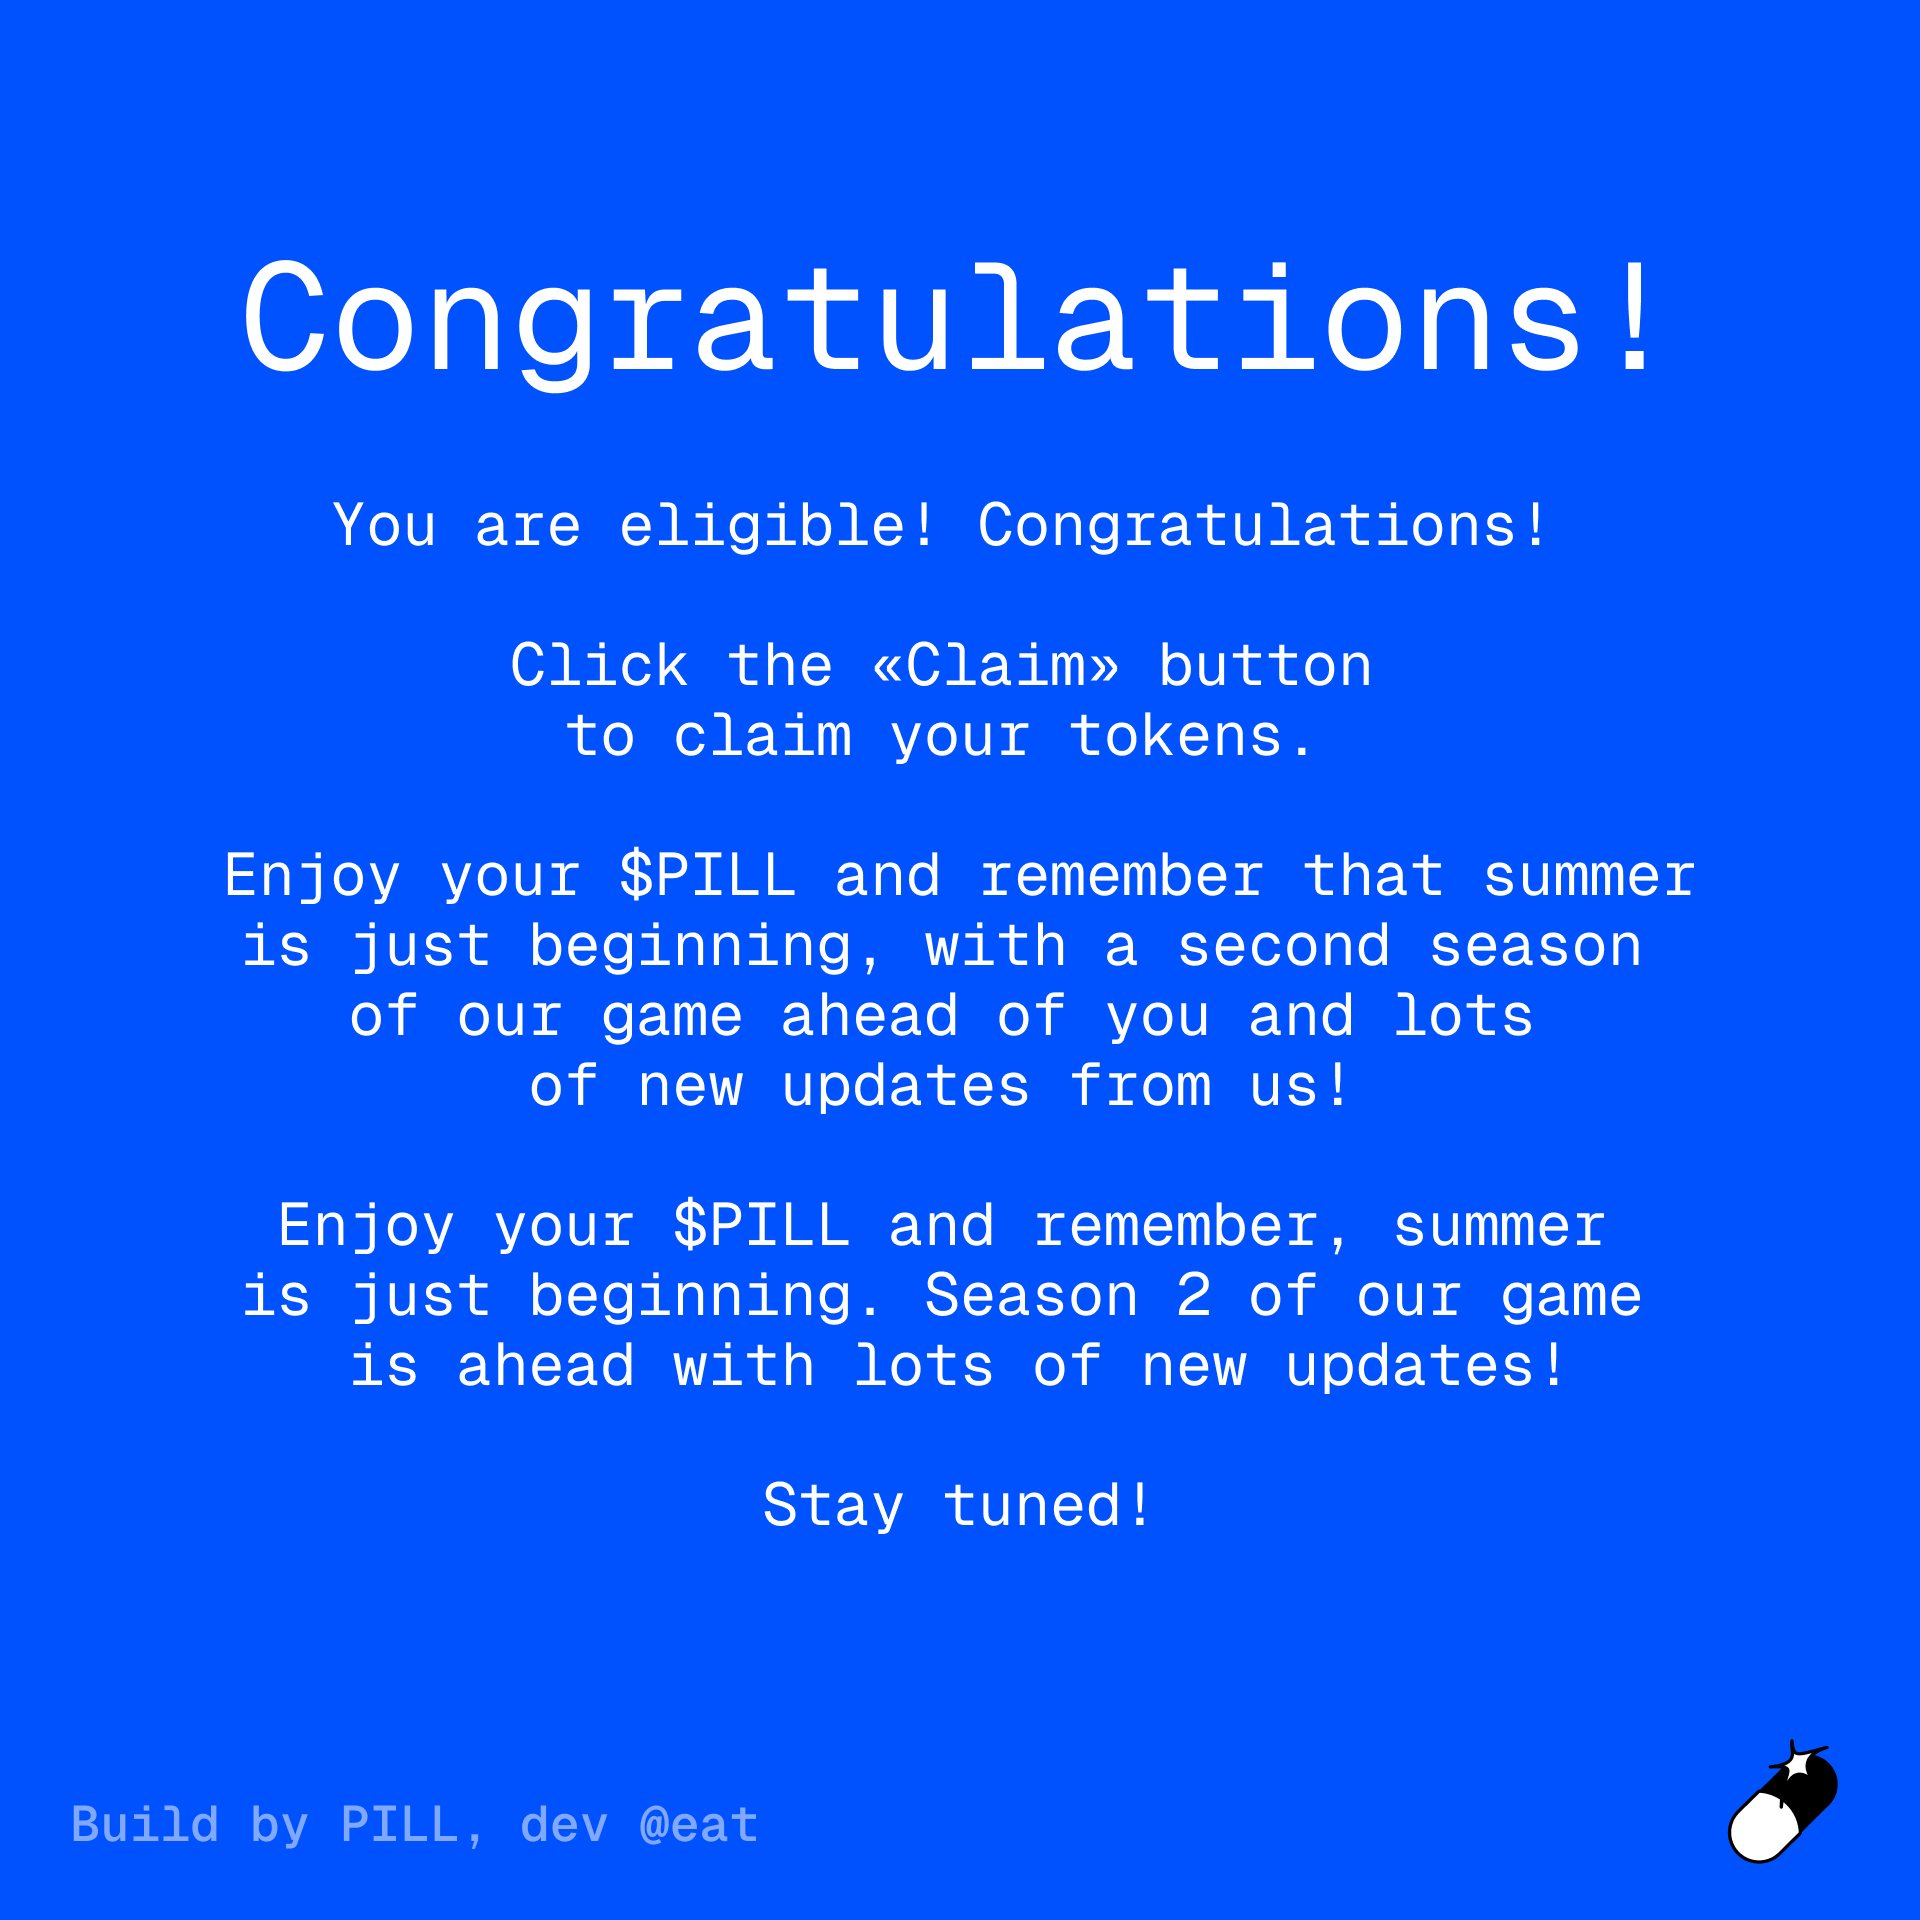
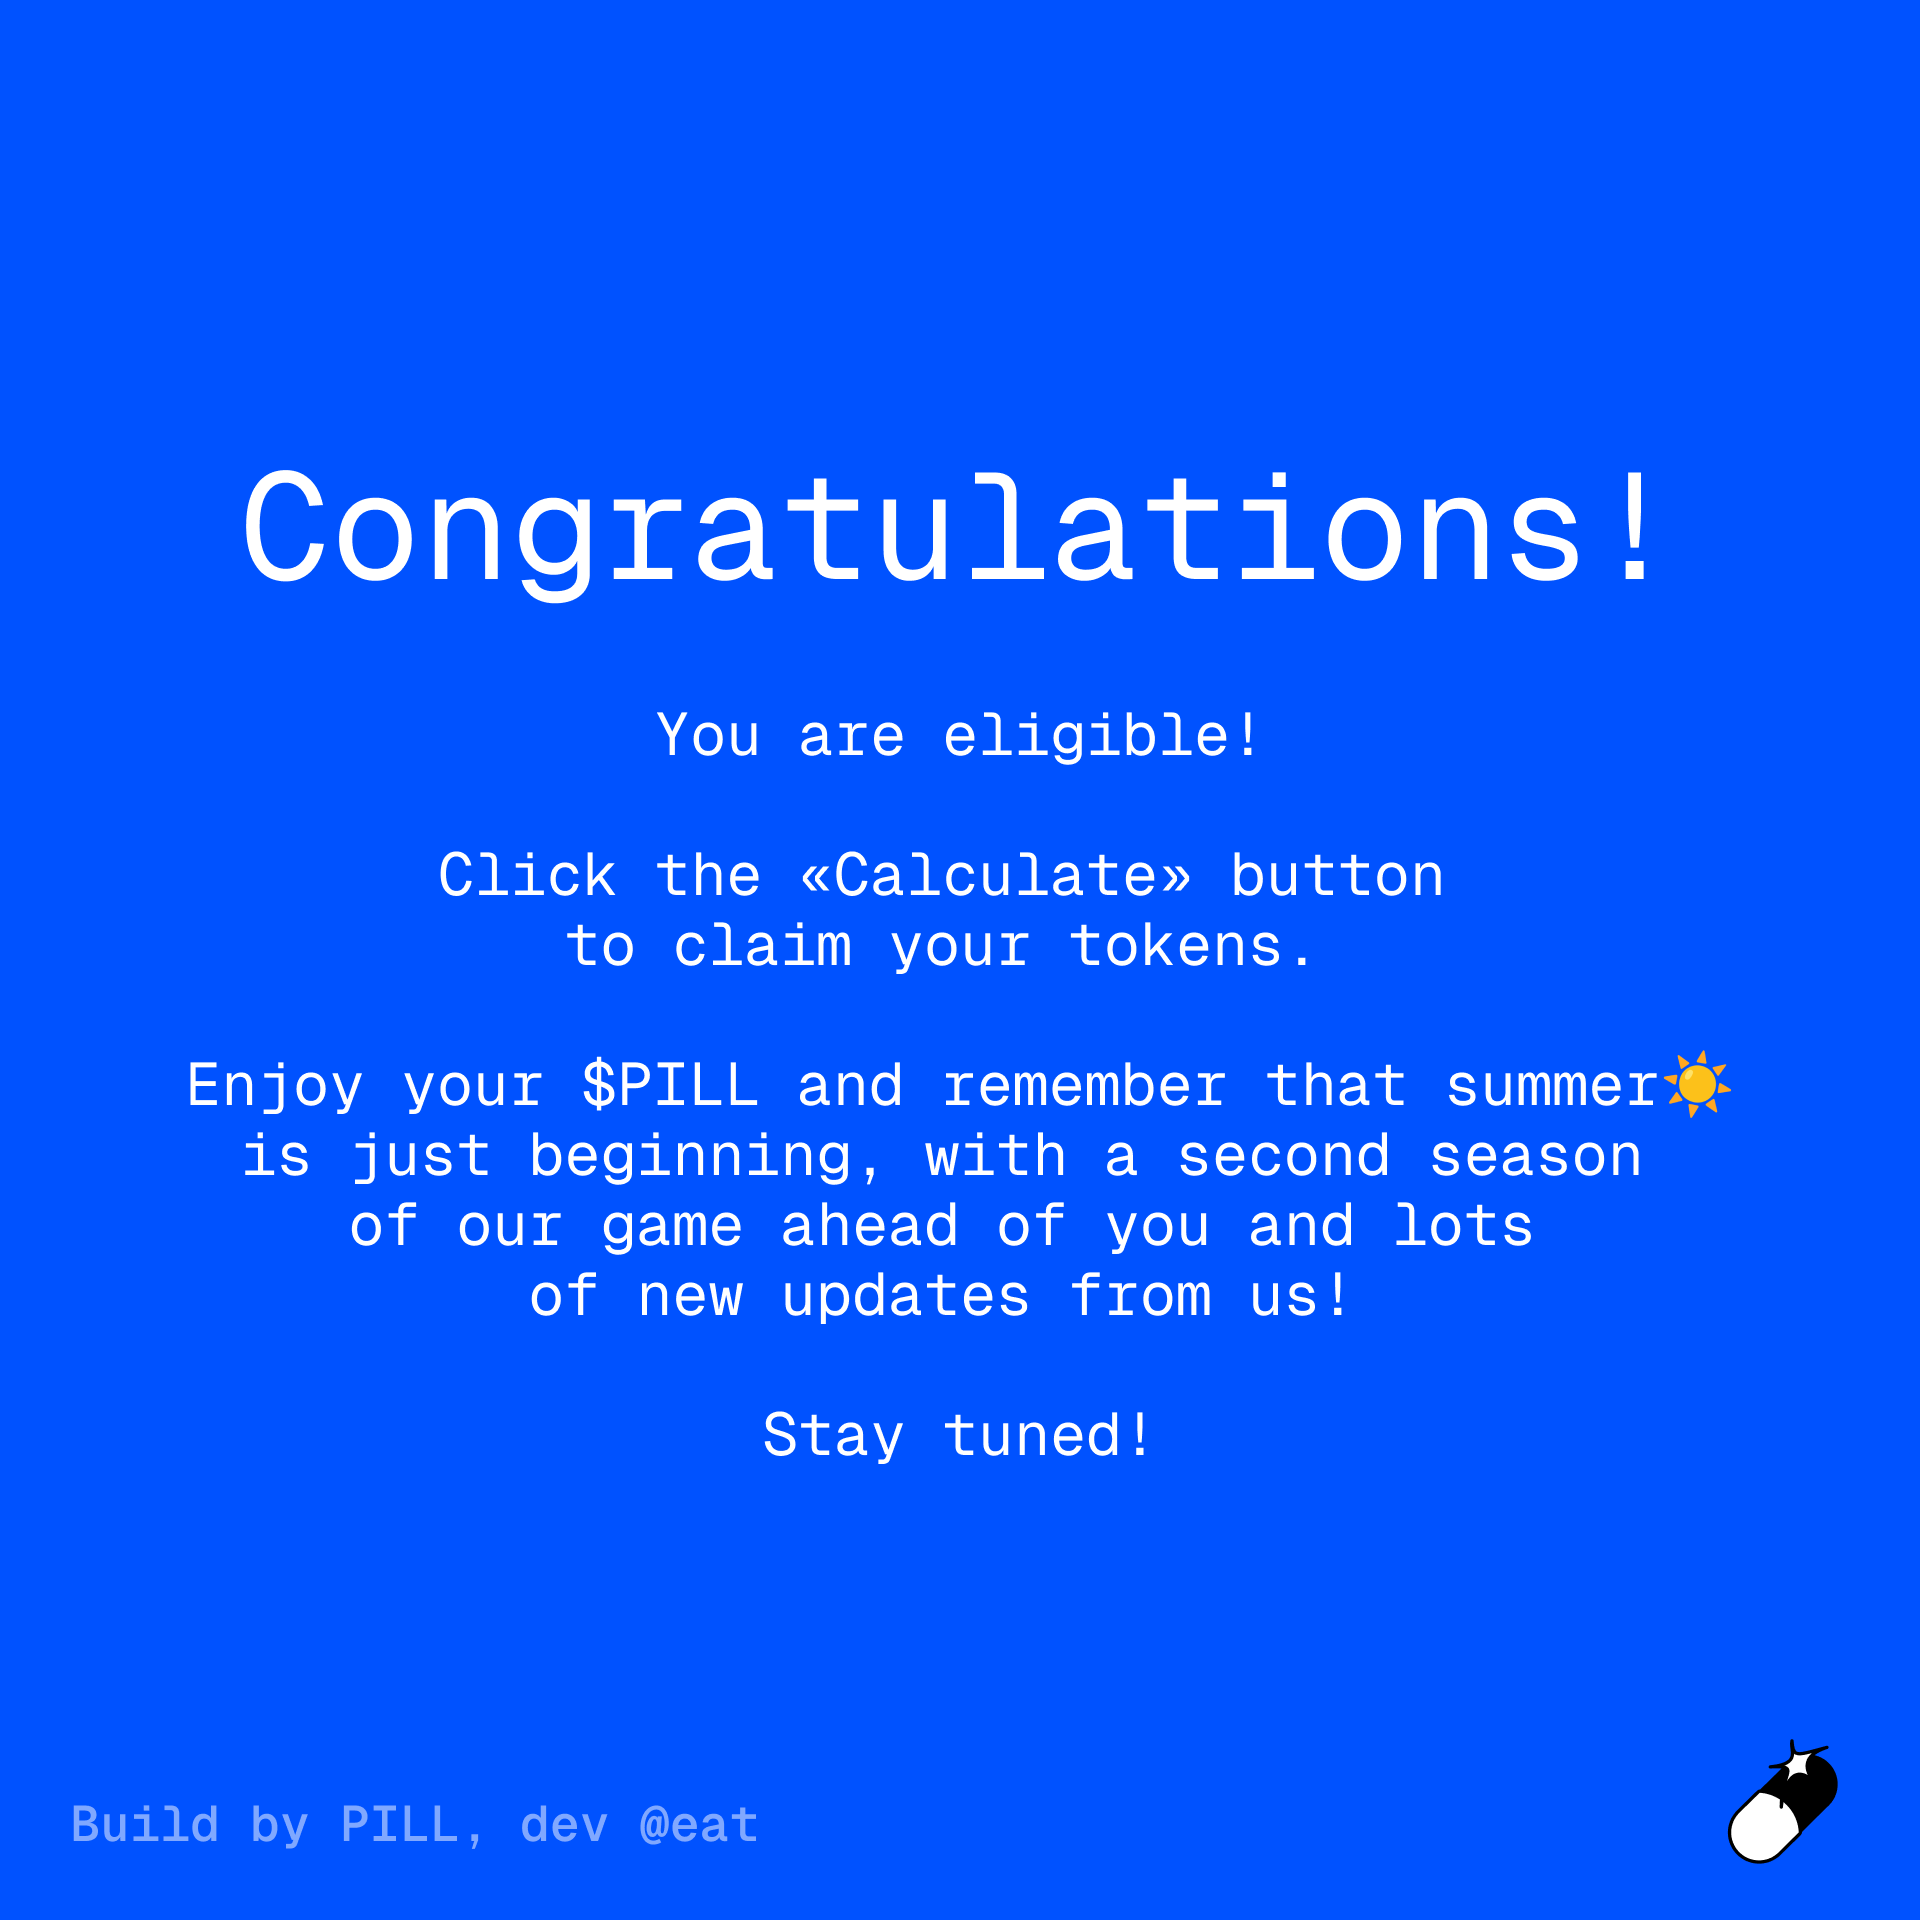
fixes

diff --git a/src/app/api/frame/get-calculate/route.tsx b/src/app/api/frame/get-calculate/route.tsx
@@ -35,6 +35,7 @@ export async function GET(request: Request) {
 			points = 0;
 		} else {
 			points = user.points;
+			username = user.username.slice(1, -1);
 		}
 
         if(power === "true" || amount > 200000) {
@@ -88,7 +89,7 @@ export async function GET(request: Request) {
 							whiteSpace: 'pre-wrap',
 						}}
 					>
-						Calculation rewards
+						Calculation results
 					</div>
 
                     <div
@@ -112,7 +113,7 @@ export async function GET(request: Request) {
                             display: 'flex',
                             justifyContent: 'space-between',
                         }}>
-                            <div style={{display: 'flex',}}>Your fid:</div> 
+                            <div style={{display: 'flex',}}>Fid:</div> 
                             <div style={{display: 'flex',}}>{fid}</div>
                         </div>
 
@@ -121,7 +122,16 @@ export async function GET(request: Request) {
                             display: 'flex',
                             justifyContent: 'space-between',
                         }}>
-                            <div style={{display: 'flex',}}>Your position:</div>
+                            <div style={{display: 'flex',}}>Username:</div> 
+                            <div style={{display: 'flex',}}>{'@' + username}</div>
+                        </div>
+
+						<div style={{
+                            width: '100%',
+                            display: 'flex',
+                            justifyContent: 'space-between',
+                        }}>
+                            <div style={{display: 'flex',}}>Position:</div>
                             <div style={{display: 'flex',}}>{position}</div>
                         </div>
 
@@ -130,7 +140,7 @@ export async function GET(request: Request) {
                             display: 'flex',
                             justifyContent: 'space-between',
                         }}>
-                            <div style={{display: 'flex',}}>Your points:</div>
+                            <div style={{display: 'flex',}}>Points:</div>
                             <div style={{display: 'flex',}}>{points}</div>
                         </div>
 
@@ -144,7 +154,7 @@ export async function GET(request: Request) {
                             flexDirection: 'column',
                             gap: '24px'
                         }}>
-                            <div style={{display: 'flex',}}>Your multipliers: </div>
+                            <div style={{display: 'flex',}}>Multipliers: </div>
                             <div style={{
                                 display: 'flex',
                                 paddingLeft: '100px'
@@ -167,7 +177,7 @@ export async function GET(request: Request) {
                             display: 'flex',
                             justifyContent: 'space-between',
                         }}>
-                            <div style={{display: 'flex',}}>Your tokens:</div>
+                            <div style={{display: 'flex',}}>Your rewards:</div>
                             <div style={{display: 'flex',}}>{tokens}</div>
                         </div>
                         

diff --git a/src/app/api/frame/route.ts b/src/app/api/frame/route.ts
@@ -36,6 +36,8 @@ export async function POST(req: NextRequest): Promise<Response> {
       throw new Error('Invalid frame request');
     }
 
+    const fid_new = status?.action?.interactor?.fid ? JSON.stringify(status.action.interactor.fid) : null;
+
     // Check if user has liked and recasted
     // const hasLikedAndRecasted =
     //   !!status?.action?.cast?.viewer_context?.liked &&
@@ -45,7 +47,18 @@ export async function POST(req: NextRequest): Promise<Response> {
     //   return getResponse(ResponseType.RECAST);
     // }
 
-    const fid_new = status?.action?.interactor?.fid ? JSON.stringify(status.action.interactor.fid) : null;
+    // Check if user has liked and recasted
+    const userFollow = await userInfo(fid_new);
+    let subs;
+
+    if (!userFollow?.users) {
+      console.error(userFollow);
+      throw new Error('Invalid frame request');
+    } else {
+      subs = userFollow?.users[0].viewer_context?.following;
+      console.warn(subs);
+    }
+    
     let address: string, recieveDrop: boolean;
     // Check if user has an address connected
     const address1: Address | undefined =
@@ -152,7 +165,7 @@ function getResponse(type: ResponseType) {
         		<meta name="fc:frame:button:2:target" content="https://app.uniswap.org/swap?chain=base&inputCurrency=ETH&outputCurrency=0x388e543a5a491e7b42e3fbcd127dd6812ea02d0d" />
 				`
 			: `
-        <meta name="fc:frame:button:1" content="Check eligible" />
+        <meta name="fc:frame:button:1" content="Eligibility Checker" />
         <meta name="fc:frame:button:1:action" content="post" />
         <meta name="fc:frame:button:1:target" content="${SITE_URL}/api/frame/eligible/" />
       `
@@ -176,6 +189,27 @@ async function validateFrameRequest(data: string | undefined) {
 
   return await fetch(
     'https://api.neynar.com/v2/farcaster/frame/validate',
+    options,
+  )
+    .then((response) => response.json())
+    .catch((err) => console.error(err));
+}
+
+async function userInfo(data: string | null) {
+  if (!NEYNAR_API_KEY) throw new Error('NEYNAR_API_KEY is not set');
+  if (!data) throw new Error('No data provided');
+
+  const options = {
+    method: 'POST',
+    headers: {
+      accept: 'application/json',
+      api_key: NEYNAR_API_KEY,
+      'content-type': 'application/json',
+    },
+  };
+
+  return await fetch(
+    'https://api.neynar.com/v2/farcaster/user/bulk?fids=412772&viewer_fid='+ {data},
     options,
   )
     .then((response) => response.json())

diff --git a/src/app/api/frame/eligible/route.ts b/src/app/api/frame/eligible/route.ts
@@ -66,7 +66,7 @@ function getResponse(type: ResponseType) {
       shouldRetry
         ? `<meta property="fc:frame:button:1" content="Try again" />`
 			: `
-        <meta name="fc:frame:button:1" content="Calculate rewards" />
+        <meta name="fc:frame:button:1" content="Calculate" />
         <meta name="fc:frame:button:1:action" content="post" />
         <meta name="fc:frame:button:1:target" content="${SITE_URL}/api/frame/calculate/" />
       `

diff --git a/src/config.ts b/src/config.ts
@@ -14,7 +14,7 @@ const imageData: FrameImageMetadata = {
 
 export const FRAME_METADATA = getFrameMetadata({
   buttons: [{
-		label: 'Check results',
+		label: 'Eligibility Checker',
 	},],
   image: imageData,
   post_url: `${SITE_URL}/api/frame`,
